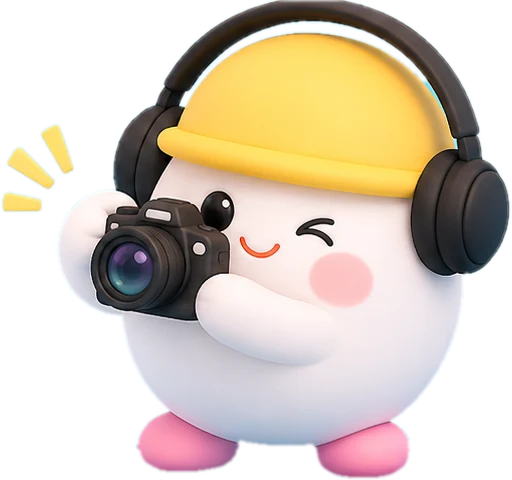
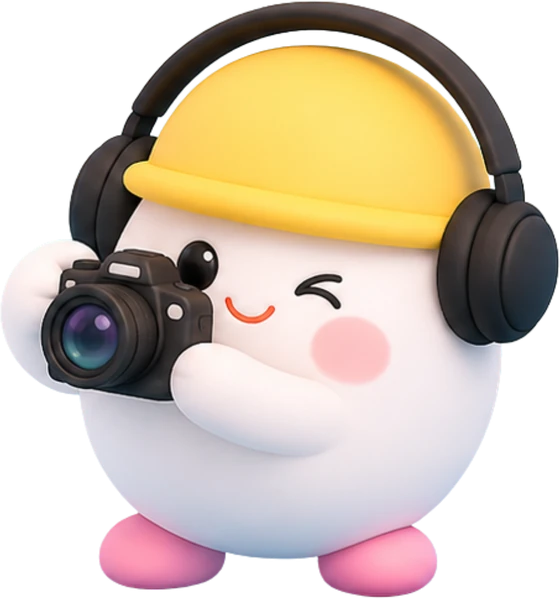
Replace camera and phone mascots with clean transparent versions
Claude-Session: https://claude.ai/code/session_01HVkNmSTj6o135QdA3DqvRt

diff --git a/diy.html b/diy.html
@@ -189,7 +189,7 @@
           <h2 id="tips-h">When it breaks, show the AI</h2>
           <p class="note">Fixing what went wrong is called debugging. You do not have to find the cause yourself. Give the AI good evidence and let it do the work.</p>
         </div>
-        <img class="hero-art md" src="images/mascot-camera.webp" alt="" width="512" height="480">
+        <img class="hero-art md" src="images/mascot-camera.webp?v=2" alt="" width="560" height="599">
       </div>
       <div class="cols two">
         <div class="glass card"><h3>Take a screenshot</h3><p>Paste it straight into the chat. Windows: <kbd>Win</kbd> + <kbd>Shift</kbd> + <kbd>S</kbd>. Mac: <kbd>Cmd</kbd> + <kbd>Shift</kbd> + <kbd>4</kbd>.</p></div>

diff --git a/tools.html b/tools.html
@@ -38,7 +38,7 @@
         <h1 id="h1">Popular <span class="hl">Tools</span></h1>
         <p class="lede">Two ways to vibecode: tools made for building apps, and the everyday AI chatbots that can write code too.</p>
       </div>
-      <img class="hero-art sm" src="images/mascot-phone.webp" alt="" width="480" height="488">
+      <img class="hero-art sm" src="images/mascot-phone.webp?v=2" alt="" width="520" height="616">
     </section>
 
     <section aria-labelledby="tools-h">
